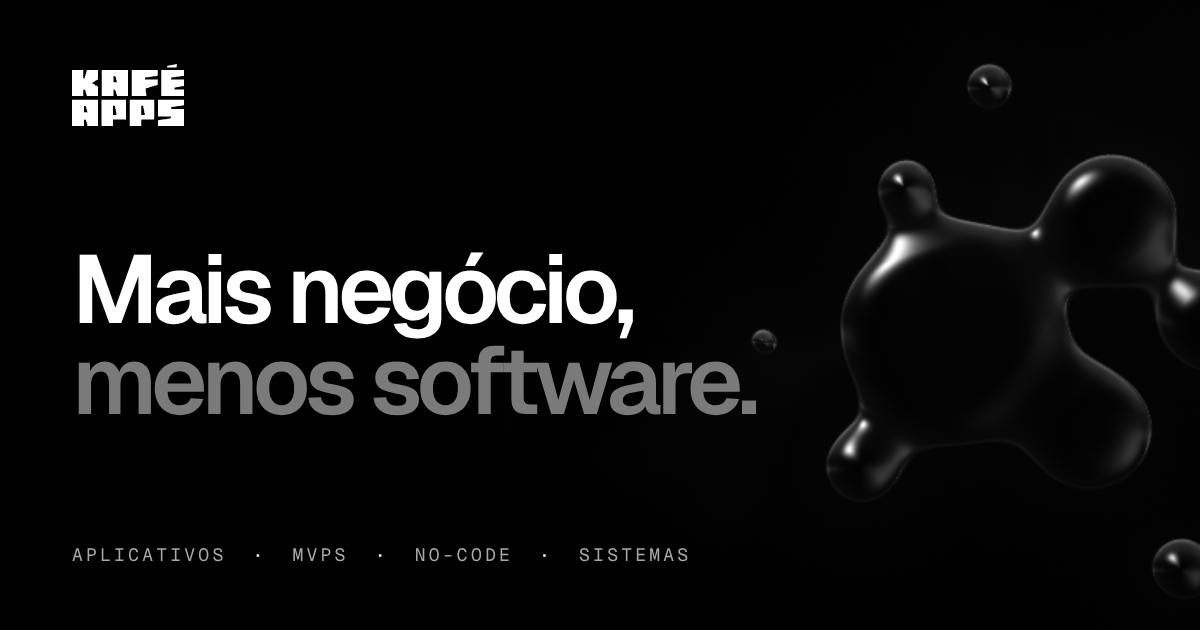
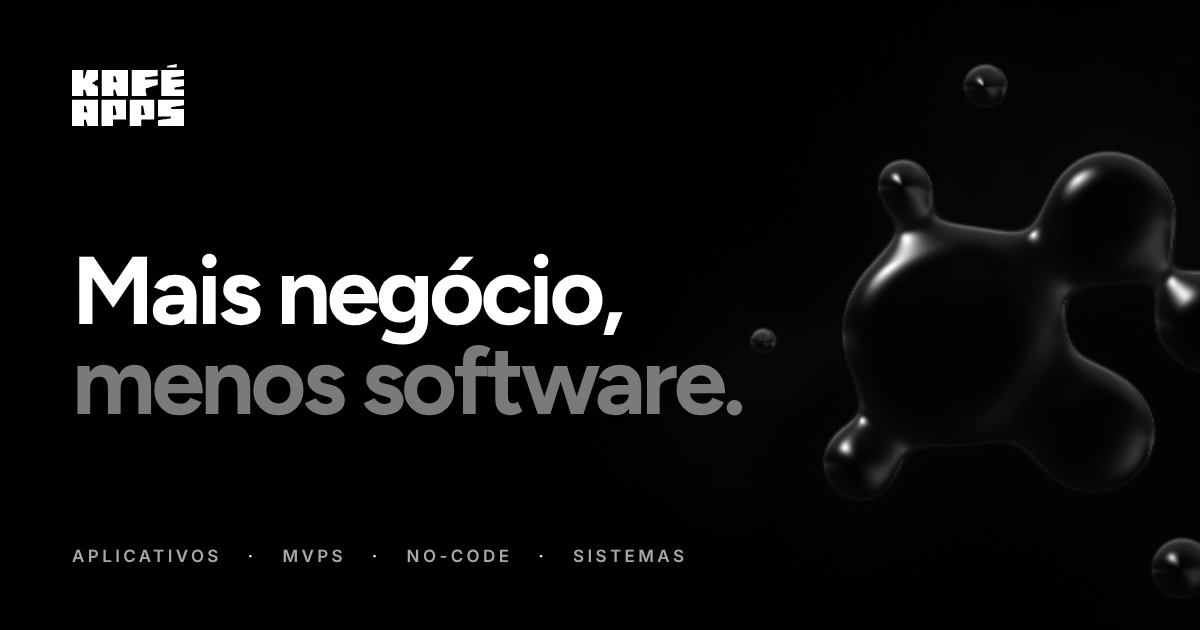
Usa as fontes da marca (Inter e Gilroy) e o K sem fundo
- Inter no texto e nos rótulos; Gilroy nos títulos. Como a Gilroy é
  paga, o build detecta os arquivos licenciados em public/fonts/gilroy
  e gera as regras @font-face; até lá os títulos usam a Figtree.
- Remove a Geist.
- K sem fundo como separador, no ícone do Kafé Ongoing™, no rodapé e
  no favicon, que alterna entre K preto e branco conforme o tema.
- Arquivos da marca para download em public/brand (K e logo, branco e
  preto, SVG e PNG transparentes).

Claude-Session: https://claude.ai/code/session_01EDSy16zp7YeDkangh4hHvN

diff --git a/src/styles/global.css b/src/styles/global.css
@@ -37,10 +37,13 @@
 	--glow: 0 0 0 1px rgb(255 255 255 / 0.2), 0 20px 60px -20px rgb(255 255 255 / 0.25);
 
 	/* Tipografia */
-	--font-sans: 'Geist Variable', ui-sans-serif, system-ui, -apple-system, 'Segoe UI', Roboto, sans-serif;
-	--font-mono: 'Geist Mono Variable', ui-monospace, 'SFMono-Regular', Menlo, Consolas, monospace;
+	/* Inter no texto; Gilroy nos títulos (Figtree segura o lugar até os
+	   arquivos licenciados da Gilroy entrarem em public/fonts/gilroy). */
+	--font-sans: 'Inter Variable', 'Inter', ui-sans-serif, system-ui, -apple-system, 'Segoe UI', Roboto, sans-serif;
+	--font-display: 'Gilroy', 'Figtree Variable', 'Inter Variable', ui-sans-serif, system-ui, sans-serif;
+	--font-label: var(--font-sans);
 
-	--fs-display: clamp(3.2rem, 1rem + 6.6vw, 7rem);
+	--fs-display: clamp(3.1rem, 1rem + 5.9vw, 6.4rem);
 	--fs-h1: clamp(2.6rem, 1.2rem + 5.2vw, 5.75rem);
 	--fs-h2: clamp(2.15rem, 1.1rem + 3.9vw, 4.5rem);
 	--fs-h3: clamp(1.35rem, 1.05rem + 1vw, 1.8rem);
@@ -101,7 +104,7 @@ body {
 	font-size: var(--fs-body);
 	line-height: 1.6;
 	color: var(--text);
-	font-feature-settings: 'ss01', 'cv11';
+	font-feature-settings: 'cv11', 'ss03';
 	-webkit-font-smoothing: antialiased;
 	-moz-osx-font-smoothing: grayscale;
 	text-rendering: optimizeLegibility;
@@ -151,9 +154,10 @@ h1,
 h2,
 h3,
 h4 {
-	font-weight: 600;
+	font-family: var(--font-display);
+	font-weight: 700;
 	line-height: 1.05;
-	letter-spacing: -0.035em;
+	letter-spacing: -0.03em;
 	text-wrap: balance;
 }
 
@@ -182,29 +186,37 @@ ol[role='list'] {
    Tipografia
    -------------------------------------------------------------------------- */
 
+.display,
+.h1,
+.h2,
+.h3,
+.font-display {
+	font-family: var(--font-display);
+	font-weight: 700;
+}
+
 .display {
 	font-size: var(--fs-display);
-	line-height: 0.92;
-	letter-spacing: -0.055em;
-	font-weight: 600;
+	line-height: 0.95;
+	letter-spacing: -0.045em;
 }
 
 .h1 {
 	font-size: var(--fs-h1);
-	line-height: 0.96;
-	letter-spacing: -0.045em;
+	line-height: 0.98;
+	letter-spacing: -0.04em;
 }
 
 .h2 {
 	font-size: var(--fs-h2);
-	line-height: 1;
-	letter-spacing: -0.042em;
+	line-height: 1.02;
+	letter-spacing: -0.035em;
 }
 
 .h3 {
 	font-size: var(--fs-h3);
 	line-height: 1.15;
-	letter-spacing: -0.025em;
+	letter-spacing: -0.02em;
 }
 
 /* Manchetes em dois tons: o trecho entre <em> fica em cinza. */
@@ -224,18 +236,20 @@ ol[role='list'] {
 	color: var(--text-muted);
 }
 
-.mono {
-	font-family: var(--font-mono);
+/* Rótulos e números técnicos (datas, numeração das etapas etc.). */
+.label {
+	font-family: var(--font-label);
+	font-variant-numeric: tabular-nums;
 }
 
 .eyebrow {
 	display: inline-flex;
 	align-items: center;
 	gap: 0.6em;
-	font-family: var(--font-mono);
-	font-size: 0.75rem;
-	font-weight: 500;
-	letter-spacing: 0.18em;
+	font-family: var(--font-label);
+	font-size: 0.72rem;
+	font-weight: 600;
+	letter-spacing: 0.2em;
 	text-transform: uppercase;
 	color: var(--text-muted);
 }
@@ -593,7 +607,7 @@ ol[role='list'] {
 }
 
 .prose code {
-	font-family: var(--font-mono);
+	font-family: var(--font-label);
 	font-size: 0.9em;
 	padding: 0.15em 0.4em;
 	border-radius: 6px;

diff --git a/src/scripts/gilroy.ts b/src/scripts/gilroy.ts
@@ -1,0 +1,73 @@
+/**
+ * Gilroy é uma fonte paga: o site não a distribui. Quando os arquivos
+ * licenciados são colocados em public/fonts/gilroy/, este módulo (que roda só
+ * durante o build) gera as regras @font-face correspondentes.
+ */
+import { readdirSync } from 'node:fs';
+import { join } from 'node:path';
+
+const FOLDER = join(process.cwd(), 'public', 'fonts', 'gilroy');
+
+// A ordem importa: "ExtraBold" e "SemiBold" precisam ser testados antes de "Bold".
+const WEIGHTS: [RegExp, number][] = [
+	[/thin|hairline/i, 100],
+	[/(ultra|extra)light/i, 200],
+	[/light/i, 300],
+	[/medium/i, 500],
+	[/semibold/i, 600],
+	[/extrabold/i, 800],
+	[/black/i, 900],
+	[/heavy/i, 950],
+	[/bold/i, 700],
+];
+
+const FORMATS: Record<string, string> = {
+	woff2: 'woff2',
+	woff: 'woff',
+	otf: 'opentype',
+	ttf: 'truetype',
+};
+
+type Face = { weight: number; style: 'normal' | 'italic'; sources: { url: string; format: string }[] };
+
+function readFaces(): Face[] {
+	let files: string[] = [];
+	try {
+		files = readdirSync(FOLDER);
+	} catch {
+		return [];
+	}
+
+	const faces = new Map<string, Face>();
+	for (const file of files) {
+		const extension = file.split('.').pop()?.toLowerCase() ?? '';
+		if (!(extension in FORMATS)) continue;
+		const weight = WEIGHTS.find(([pattern]) => pattern.test(file))?.[1] ?? 400;
+		const style = /italic/i.test(file) ? 'italic' : 'normal';
+		const key = `${weight}-${style}`;
+		const face = faces.get(key) ?? { weight, style, sources: [] };
+		face.sources.push({ url: `/fonts/gilroy/${encodeURIComponent(file)}`, format: FORMATS[extension] });
+		faces.set(key, face);
+	}
+
+	const order = Object.values(FORMATS);
+	return [...faces.values()]
+		.map((face) => ({ ...face, sources: face.sources.sort((a, b) => order.indexOf(a.format) - order.indexOf(b.format)) }))
+		.sort((a, b) => a.weight - b.weight);
+}
+
+const faces = readFaces();
+
+export const gilroyCss = faces
+	.map(
+		(face) =>
+			`@font-face{font-family:'Gilroy';font-style:${face.style};font-weight:${face.weight};font-display:swap;src:${face.sources
+				.map((source) => `url('${source.url}') format('${source.format}')`)
+				.join(',')}}`,
+	)
+	.join('');
+
+/** Arquivo do peso usado nas manchetes, para pré-carregar. */
+export const gilroyPreload = faces
+	.find((face) => face.weight === 700 && face.style === 'normal')
+	?.sources.find((source) => source.format === 'woff2')?.url;

diff --git a/README.md b/README.md
@@ -33,8 +33,14 @@ npm run check    # verificação de tipos
 | Cases | `src/content/cases/*.md` (use `_modelo-de-case.md` como base) |
 | Cores (preto, branco e cinzas), fontes e espaçamentos | `src/styles/global.css` (variáveis no topo) |
 | Logos (KAFÉ APPS e o símbolo K) | `src/assets/brand/` e `public/favicon.svg` |
+| Arquivos da marca para download (K e logo, branco e preto, sem fundo) | `public/brand/` |
 
 Seções que dependem de listas vazias (depoimentos, clientes, tecnologias, cases) **não aparecem** até receberem conteúdo. Assim nada de "exemplo" vai para o ar por engano.
+
+### Fontes
+
+- **Inter** no texto (já incluída).
+- **Gilroy** nos títulos. É uma fonte paga, então o site não a distribui: coloque os arquivos licenciados em `public/fonts/gilroy/` com o peso no nome (ex.: `Gilroy-Bold.woff2`, `Gilroy-SemiBold.woff2`). No próximo build, os títulos passam a usar a Gilroy automaticamente. Enquanto a pasta estiver vazia, os títulos usam a Figtree, gratuita e de desenho parecido.
 
 ### Formulário de contato
 
@@ -77,5 +83,6 @@ O comando `npm run build` gera a pasta `dist/`, que funciona em qualquer hospeda
 - [ ] Confirmar os quatro "D" da Metodologia 4D (`src/data/method.ts`).
 - [ ] Revisar o número "até 40% mais econômico" (veio da landing page atual).
 - [ ] Revisar as respostas das perguntas frequentes (NDA, prazos, propriedade).
+- [ ] Adicionar os arquivos da Gilroy em `public/fonts/gilroy/`.
 - [ ] Adicionar cases, depoimentos, clientes e tecnologias reais.
 - [ ] Revisar a política de privacidade com o jurídico.
